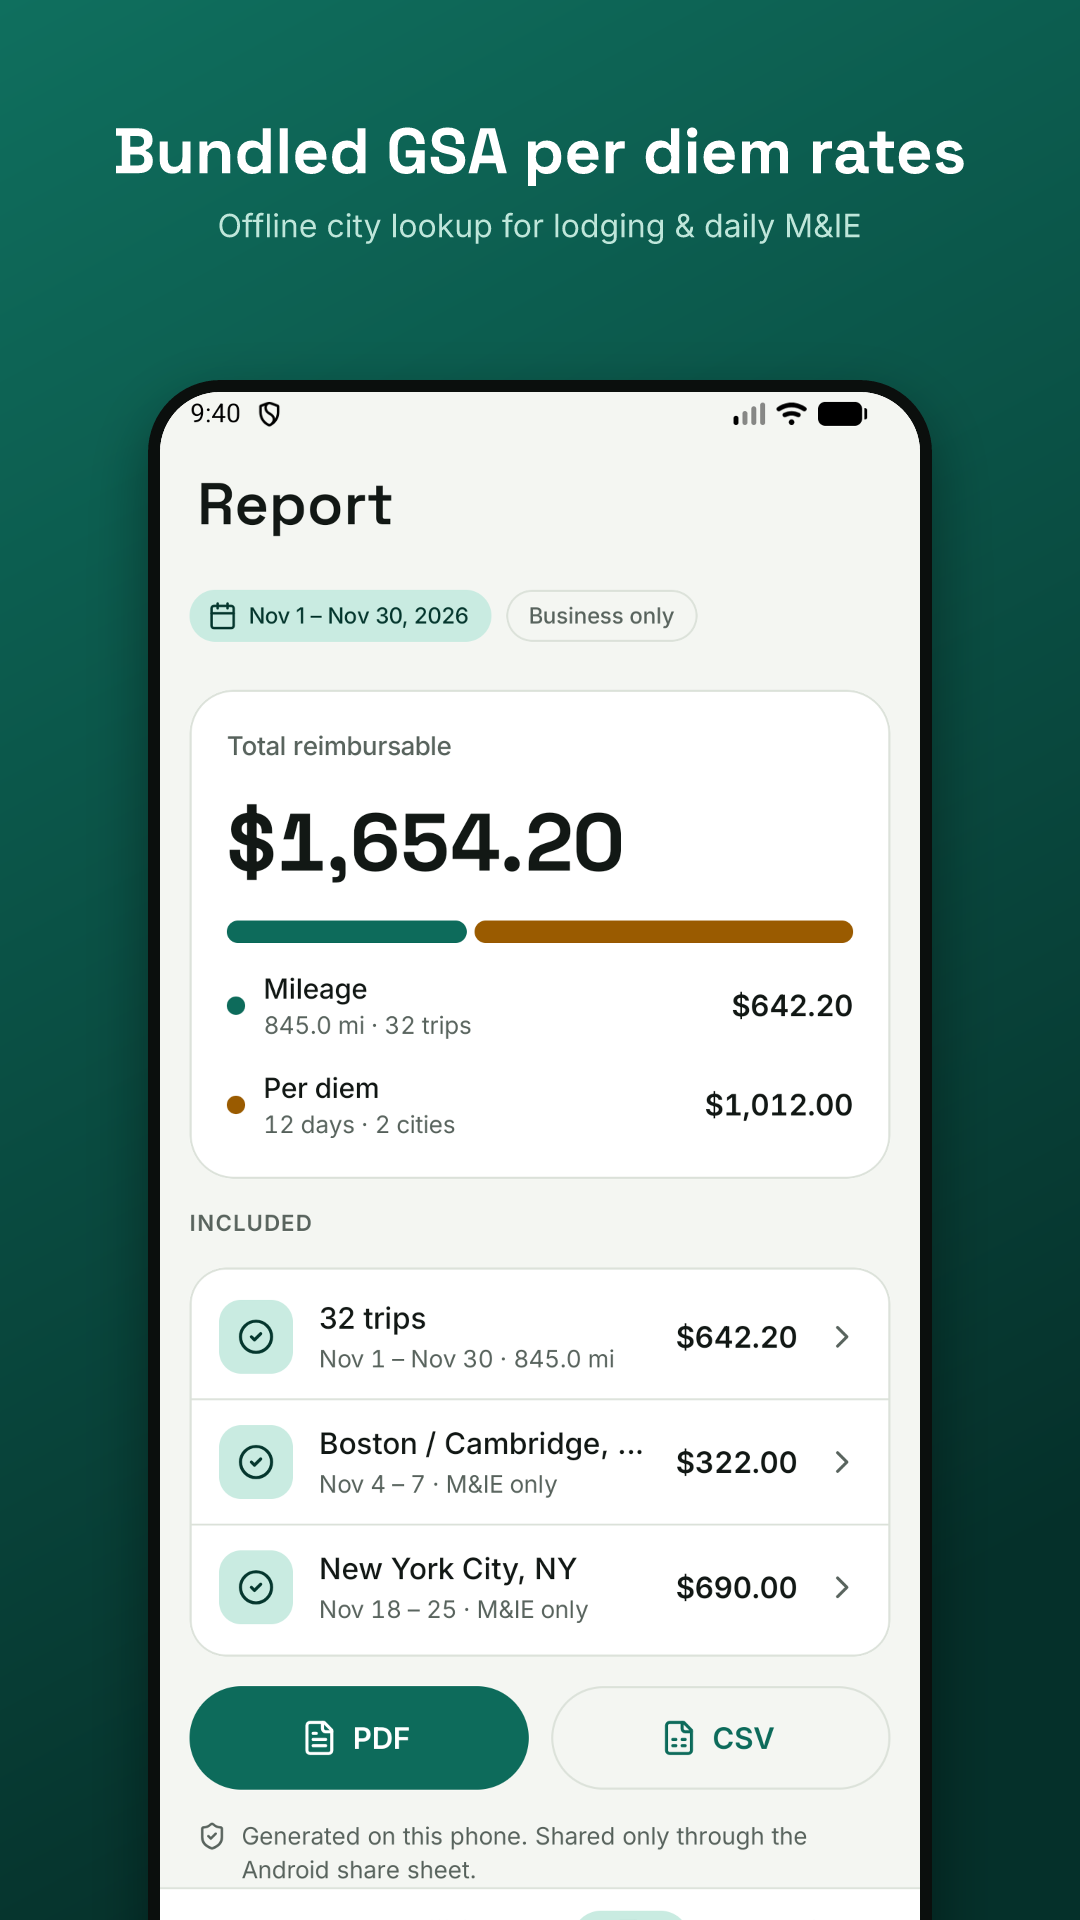
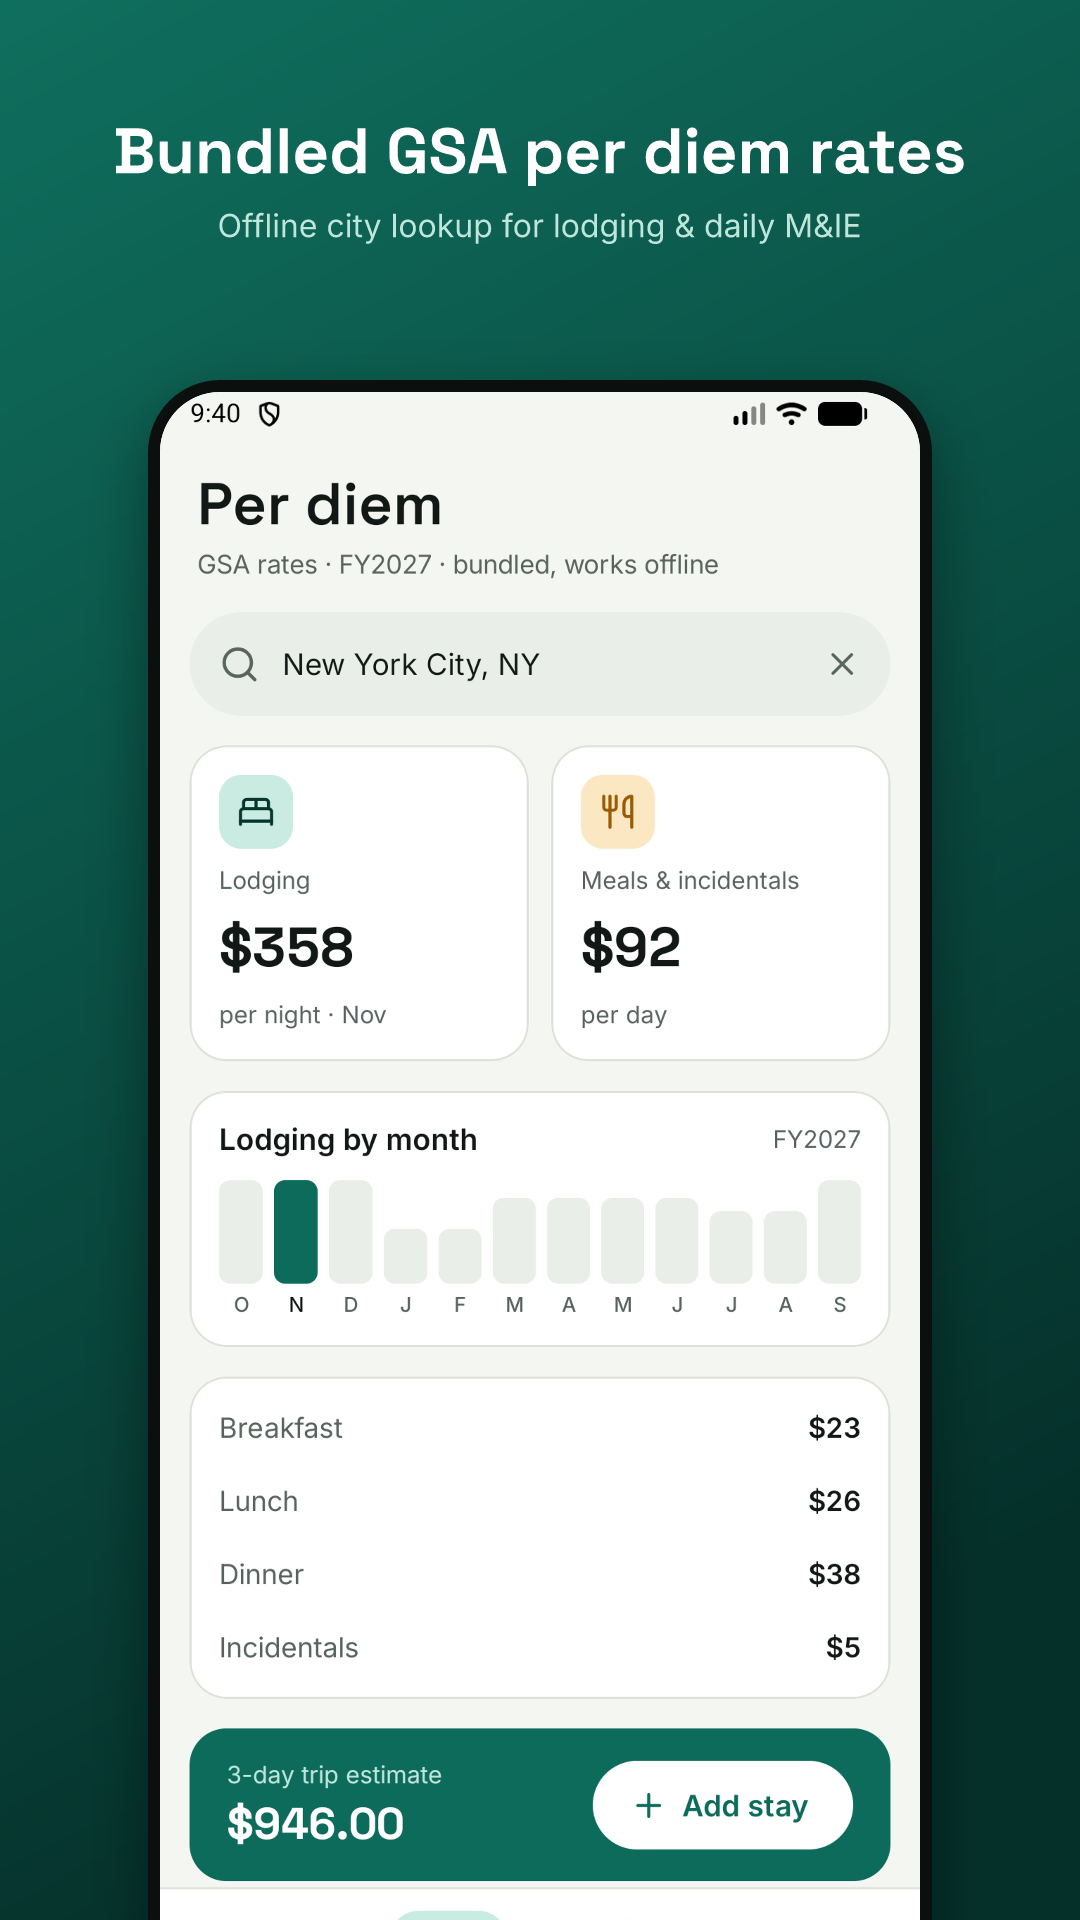
Fix per diem store screenshot and record Play tags
The 05 screenshot showed the Report screen under the per diem headline.
It now shows the per diem lookup. The answer sheet lists the tags Play
actually offers.

diff --git a/docs/PLAY_CONSOLE_ANSWERS.md b/docs/PLAY_CONSOLE_ANSWERS.md
@@ -16,8 +16,8 @@ Ready-to-paste answers for every Play Console section, in the order you'll meet 
 | Field | Answer |
 |---|---|
 | Category | **Business** (not Finance, so the app isn't mistaken for a financial-services app) |
-| Tags | Mileage tracker, Expense tracker, Business travel |
-| Contact email | your public developer email |
+| Tags | Business, Productivity, Travel & local, Auto & vehicles (Play has no mileage or expense tag; Finance is left out on purpose) |
+| Contact email | the developer account email |
 | Website | `https://andreij6.github.io/mileage-per-diem/` |
 | Countries | **United States only**. IRS rates and GSA per diems are U.S. rules. |
 
